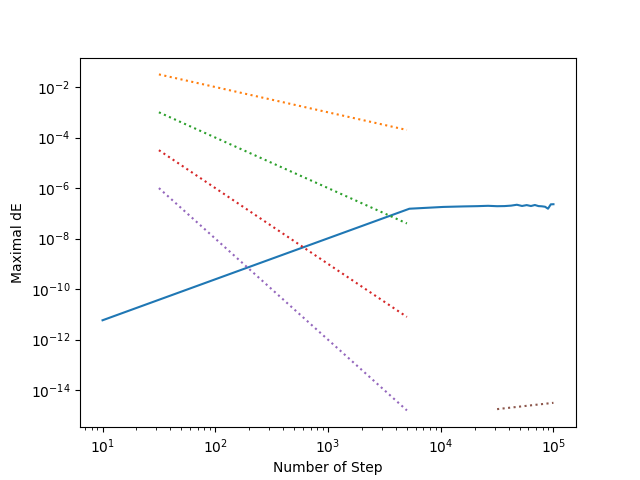
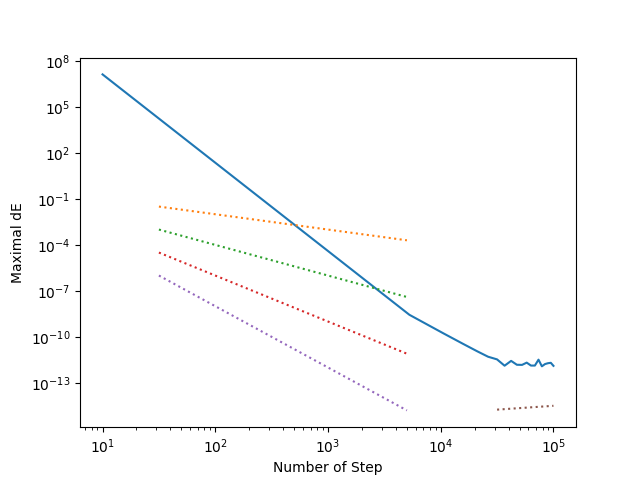
Fixed dE by dt for 2 Swinging

diff --git a/src/dE_by_dt.py b/src/dE_by_dt.py
@@ -16,7 +16,6 @@ u=3
 x0 = np.array([ 3, 0, np.pi/2, 0 ])
 
 DET = np.zeros(len(DT))
-t = np.zeros(len(DT))
 
 for i,dt in enumerate(DT):
     r,pr,theta,ptheta,dET = OneSwinging_2D_Explicit.integrate(u=u, tf=tf, dt=dt, x0=x0)
@@ -48,13 +47,13 @@ plt.show()
 
 x0 = np.array([ 3, 0, np.pi/2, 0 , np.pi/8 , 0 ])
 r0M = 3
+ropeLength = r0M + x0[0]
 
-DET = np.zeros(len(STEPS))
-t = np.zeros(len(STEPS))
+DET = np.zeros(len(DT))
 
-for i,u in enumerate(STEPS):
+for i,dt in enumerate(DT):
     r,pr,theta_m,ptheta_m,theta_M,ptheta_M,dET = TwoSwinging_2D_Explicit.integrate(u=u, tf=tf, dt=dt, x0=x0,r0M=r0M)
-    E = pr**2 / (2*(u+1)) + ptheta_M**2 / (2*u*((r0M + x0[0])-r)**2) + ptheta_m**2 / (2*1*r**2) - u*scipy.constants.g*((r0M + x0[0])-r)*np.cos(theta_M) - 1*scipy.constants.g*r*np.cos(theta_m)
+    E = pr**2 / (2*(u+1)) + ptheta_M**2 / (2*u*(ropeLength-r)**2) + ptheta_m**2 / (2*1*r**2) + u*scipy.constants.g*(ropeLength - (ropeLength-r)*np.cos(theta_M)) + 1*scipy.constants.g*(ropeLength-r*np.cos(theta_m))
     dET = E - E[0] 
     DET[i] = abs(dET[-1])
 plt.plot(STEPS,DET,label="Clamped Maximal Fractional Energy Loss")

diff --git a/src/TwoSwinging_2D_Explicit.py b/src/TwoSwinging_2D_Explicit.py
@@ -46,6 +46,7 @@ def integrate(u, tf, dt, x0, r0M) :
     ptheta_M  = path[:i,5]
 
     #Calculate the energy for each frame (equation of the hamiltonian)
+    #ET = pr**2 / (2*(M+m)) + ptheta_M**2 / (2*M*(ropeLength-r)**2) + ptheta_m**2 / (2*m*r**2) + M*scipy.constants.g*(ropeLength - (ropeLength-r)*np.cos(theta_M)) + m*scipy.constants.g*(ropeLength-r*np.cos(theta_m))
     ET = pr**2 / (2*(M+m)) + ptheta_M**2 / (2*M*(ropeLength-r)**2) + ptheta_m**2 / (2*m*r**2) - M*scipy.constants.g*(ropeLength-r)*np.cos(theta_M) - m*scipy.constants.g*r*np.cos(theta_m)
     dET = 100* (ET - ET[0])/ET[0]
 
